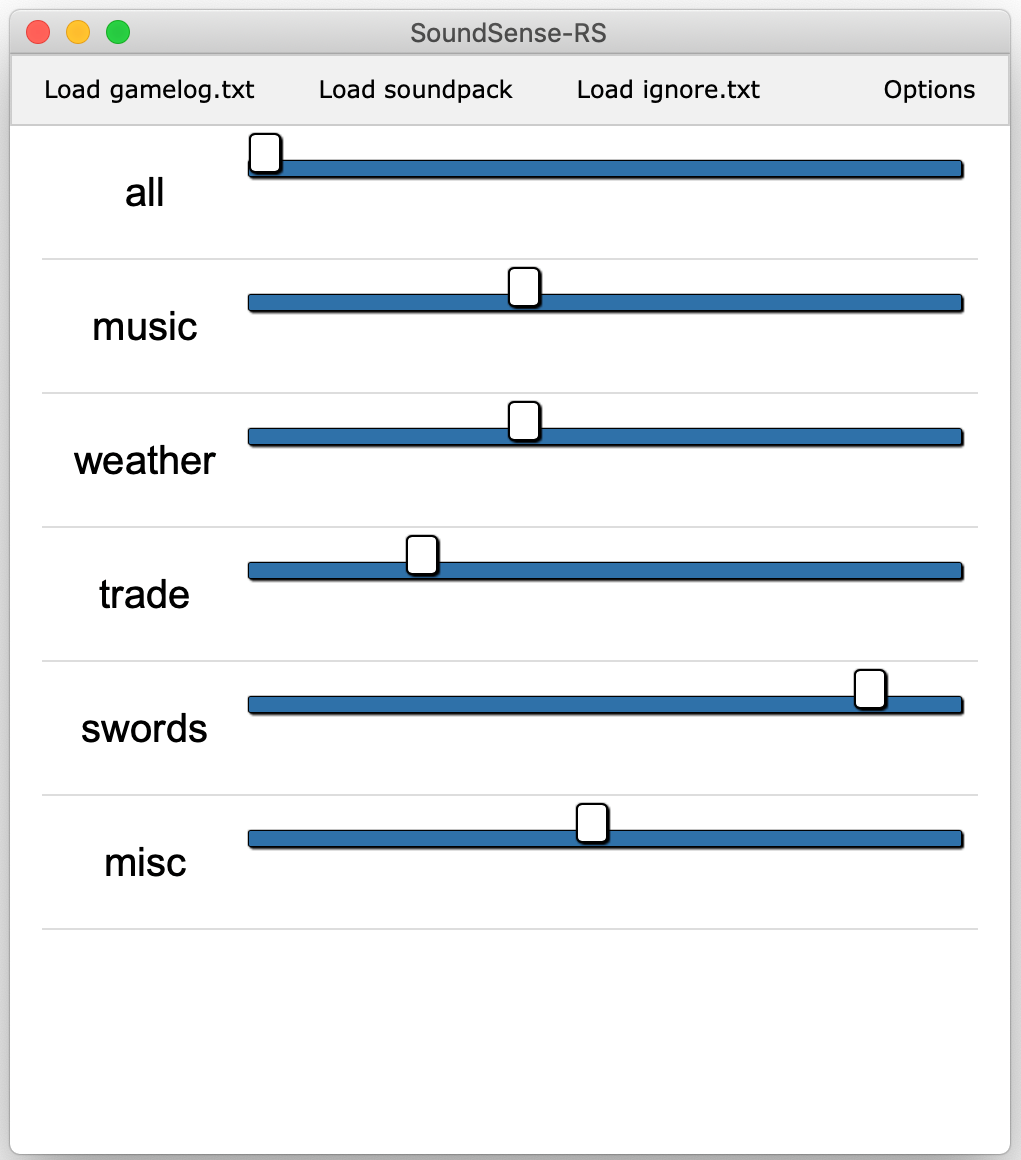
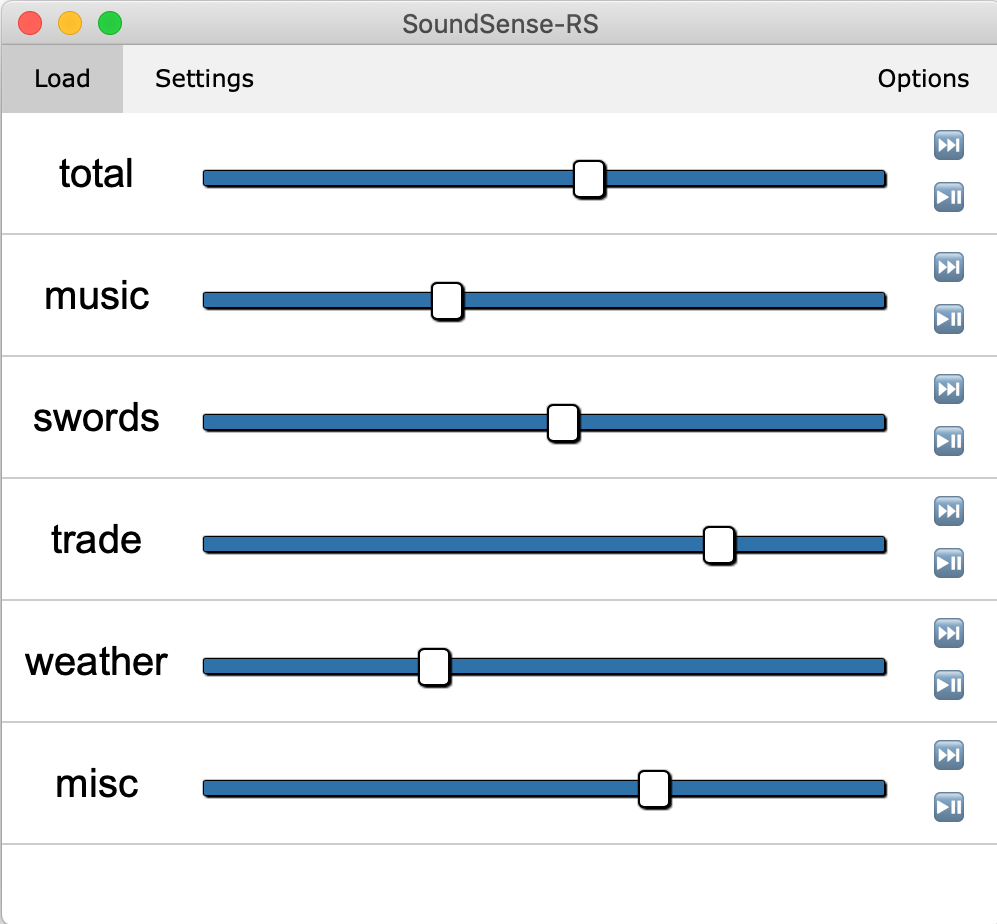
* fixed threshold filtering not working properly * updated macos screenshot [ci-build]

diff --git a/src/sound/sound_manager.rs b/src/sound/sound_manager.rs
@@ -290,7 +290,7 @@ impl SoundManager {
                                         match attr_value {
                                             "singleEager" => play_type = ChannelPlayType::SingleEager,
                                             "singleLazy" => play_type = ChannelPlayType::SingleLazy,
-                                            "total" => (),
+                                            "all" => (),
                                             other => {
                                                 warn!("Unknown Channel PlayType: {}", other);
                                                 warn!("Will ignore this value.");
@@ -525,7 +525,7 @@ impl SoundManager {
                             trace!("  can't play: failed probability roll");
                         }
                     }
-                    can_play &= self.total_threshold > sound.playback_threshold;
+                    can_play &= self.total_threshold >= sound.playback_threshold;
                     if !can_play {
                         trace!(
                             "  can't play: at threshold limit - sound.playback_threshold: {}, total_threshold: {}",
@@ -571,7 +571,7 @@ impl SoundManager {
                                 sound.concurency.unwrap(), chn_len);
                         }
                         // Check if the playback_threshold is higher than the channel threshold.
-                        else if chn_threshold <= sound.playback_threshold {
+                        else if chn_threshold < sound.playback_threshold {
                             trace!("   can't play: at threshold limit - sound.playback_threshold: {}, channel_threshold: {}",
                                 sound.playback_threshold, chn_threshold);
                         }
@@ -611,7 +611,7 @@ impl SoundManager {
                             trace!("   can't play: at concurency limit - limit {}, channel {}",
                                 sound.concurency.unwrap(), chn_len);
                         }
-                        else if chn_threshold <= sound.playback_threshold {
+                        else if chn_threshold < sound.playback_threshold {
                             trace!("   can't play: at threshold limit - sound.playback_threshold: {}, channel_threshold: {}",
                                 sound.playback_threshold, chn_threshold);
                         }
